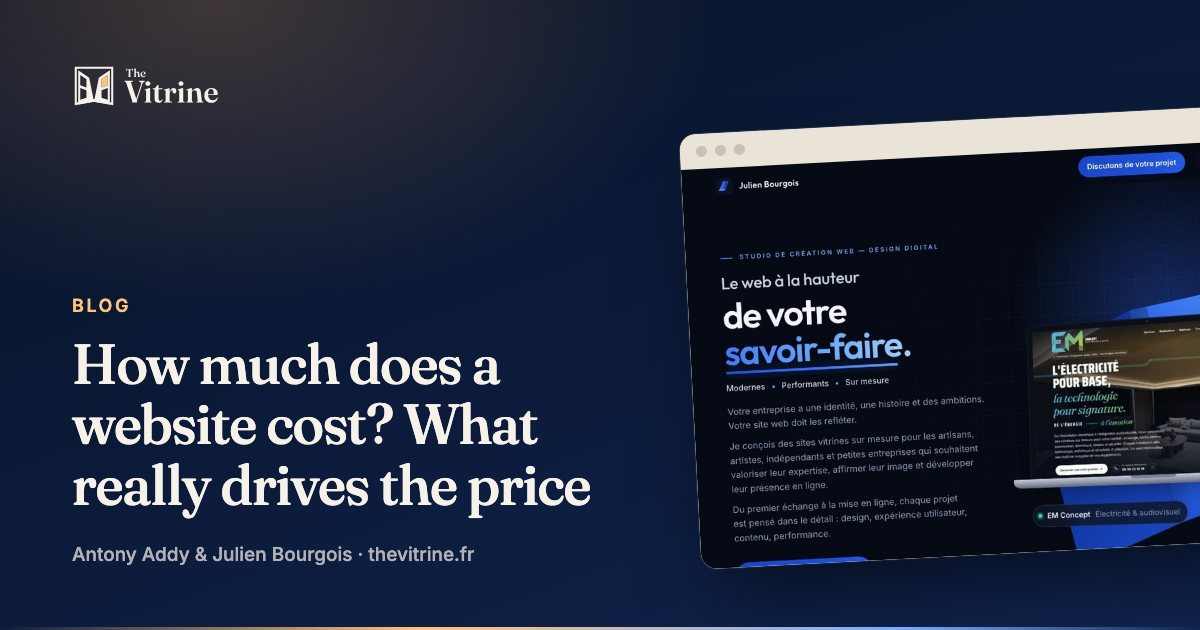
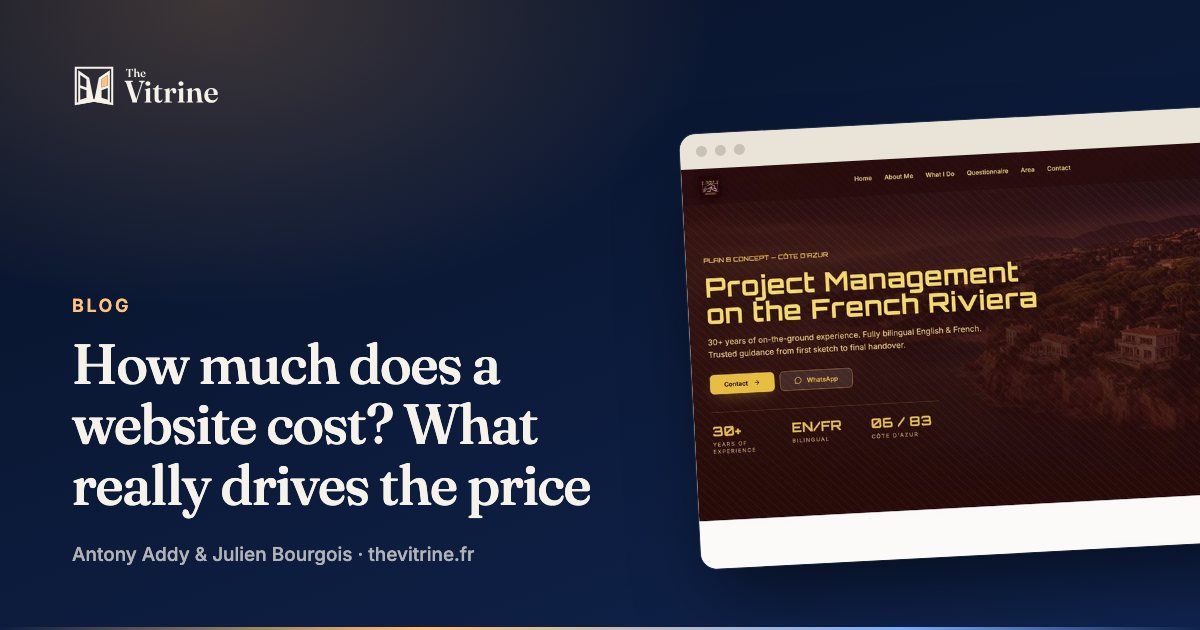
Present every site as The Vitrine's shared work
- Remove the Antony / Julien filter, the maker names on cards and in the hero
- Case studies say "Built by The Vitrine"; structured data credits the organisation
- Contact cards: both co-founders, linking to The Vitrine's contact page
- About page: one team, one shared site count, no per-person work links
- FAQ, forms, emails and blog articles speak as "we"
- Tests follow the category filter; hero test follows the current slide order

Changed region(s): [[0.555, 0.2111, 1.0, 0.9048]]

diff --git a/src/i18n.ts b/src/i18n.ts
@@ -55,9 +55,8 @@ export const strings = {
     contactLead: "Want a window",
     contactAccent: "of your own",
     contactTail: "?",
-    contactLede: "Tell one of us about your business, and we'll come back with ideas and a clear quote.",
-    contactAntony: "Websites, apps and AI tools · also English and AI training",
-    contactJulien: "Made-to-measure websites for tradespeople, shops and independents",
+    contactLede: "Tell us about your business, and we'll come back with ideas and a clear quote.",
+    contactRole: "Co-founder of The Vitrine",
     contactCta: "Get in touch",
     barCta: "Quote",
     caseTitle: "{title}: case study | The Vitrine",
@@ -114,7 +113,7 @@ export const strings = {
     cfDescription: "A question, an idea, a project? Send Antony and Julien a message, or reach them on WhatsApp.",
     cfEyebrow: "Contact",
     cfH1: "Write to us",
-    cfLead: "A question, an idea, a project? Leave us a message: Antony or Julien will reply very soon.",
+    cfLead: "A question, an idea, a project? Leave us a message: we'll reply very soon.",
     cfName: "Your name",
     cfEmail: "Email",
     cfPhone: "Phone (optional)",
@@ -127,7 +126,7 @@ export const strings = {
     cfErrConsent: "Please tick the box so we can reply to you.",
     cfErrSend: "Sending didn't work. Please try again, or reach us on WhatsApp.",
     cfDoneH: "Thank you, your message is on its way.",
-    cfDoneP: "Antony or Julien will reply very soon.",
+    cfDoneP: "We'll reply very soon.",
     cfSentTo: "A confirmation is on its way to",
     cfAgain: "Write another message",
     cfProjectTitle: "Planning a website?",
@@ -139,13 +138,12 @@ export const strings = {
     heroContactLink: "Write to us",
     navAbout: "About",
     aboutTitle: "About: Antony Addy and Julien Bourgois | The Vitrine",
-    aboutDescription: "Meet Antony Addy and Julien Bourgois, the two makers behind The Vitrine: who they are, how they work, and the websites they build.",
+    aboutDescription: "Meet Antony Addy and Julien Bourgois, the two founders of The Vitrine: who they are, how they work together, and the websites they build.",
     aboutEyebrow: "About",
-    aboutH1: "Two makers, one shop window",
-    aboutLead: "The Vitrine brings together the websites Antony Addy and Julien Bourgois build, each in their own way, for individuals, associations, institutions and businesses of every size, in the languages their audiences need. Two different paths, one standard: fast, polished sites, and one person to talk to from the first call to launch.",
-    aboutCount: "{n} sites in the window",
-    aboutSeeWork: "See his work",
-    aboutSite: "His website",
+    aboutH1: "Antony and Julien: one shop window",
+    aboutLead: "The Vitrine is Antony Addy and Julien Bourgois. Together, we build fast, polished websites for individuals, associations, institutions and businesses of every size, in the languages their audiences need. Two complementary backgrounds, one team, and direct contact from the first call to launch.",
+    aboutCount: "{n} sites built together",
+    aboutSeeWork: "See our work",
     aboutShared: "What we share",
     aboutNext: "Got a project in mind?",
     legalLink: "Legal notice",
@@ -162,7 +160,7 @@ export const strings = {
     servicesWhereTitle: "Where",
     servicesWhere: "Fréjus, Saint-Raphaël and across the Var and Alpes-Maritimes, and remotely anywhere else: our sites also run in the United Kingdom and Italy.",
     servicesHowTitle: "How we work",
-    servicesHow: "You talk directly to the person building your site. AI helps us design and build faster; we check and polish every detail by hand.",
+    servicesHow: "You talk directly to Antony and Julien, the people building your site. AI helps us design and build faster; we check and polish every detail by hand.",
     servicesPrice: "Allow {timescale} for a showcase website, from €{price}.",
     legalTitle: "Legal notice",
     legalDescription: "Who publishes The Vitrine, where it is hosted, and how it handles your data.",
@@ -208,8 +206,7 @@ export const strings = {
     contactAccent: "vitrine",
     contactTail: "\u00a0?",
     contactLede: "Parlez-nous de votre activité : nous revenons vers vous avec des idées et un devis clair.",
-    contactAntony: "Sites web, applis et outils IA · aussi formations d'anglais et d'IA",
-    contactJulien: "Sites vitrines sur mesure pour artisans, commerces et indépendants",
+    contactRole: "Cofondateur de The Vitrine",
     contactCta: "Prendre contact",
     barCta: "Devis",
     caseTitle: "{title} : étude de cas | The Vitrine",
@@ -266,7 +263,7 @@ export const strings = {
     cfDescription: "Une question, une idée, un projet ? Écrivez à Antony et Julien, ou joignez-les sur WhatsApp.",
     cfEyebrow: "Contact",
     cfH1: "Écrivez-nous",
-    cfLead: "Une question, une idée, un projet ? Laissez-nous un message : Antony ou Julien vous répond très vite.",
+    cfLead: "Une question, une idée, un projet ? Laissez-nous un message : nous vous répondons très vite.",
     cfName: "Votre nom",
     cfEmail: "E-mail",
     cfPhone: "Téléphone (facultatif)",
@@ -279,7 +276,7 @@ export const strings = {
     cfErrConsent: "Merci de cocher la case pour que nous puissions vous répondre.",
     cfErrSend: "L'envoi n'a pas fonctionné. Réessayez, ou joignez-nous sur WhatsApp.",
     cfDoneH: "Merci, votre message est parti.",
-    cfDoneP: "Antony ou Julien vous répond très vite.",
+    cfDoneP: "Nous vous répondons très vite.",
     cfSentTo: "Une confirmation vient de partir à",
     cfAgain: "Écrire un autre message",
     cfProjectTitle: "Un projet de site ?",
@@ -291,13 +288,12 @@ export const strings = {
     heroContactLink: "Écrivez-nous",
     navAbout: "À propos",
     aboutTitle: "À propos : Antony Addy et Julien Bourgois | The Vitrine",
-    aboutDescription: "Antony Addy et Julien Bourgois, les deux créateurs de The Vitrine : qui ils sont, comment ils travaillent, et les sites qu'ils créent.",
+    aboutDescription: "Antony Addy et Julien Bourgois, les deux fondateurs de The Vitrine : qui ils sont, comment ils travaillent ensemble, et les sites qu'ils créent.",
     aboutEyebrow: "À propos",
-    aboutH1: "Deux créateurs, une même vitrine",
-    aboutLead: "The Vitrine réunit les sites qu'Antony Addy et Julien Bourgois créent, chacun à sa façon, pour les particuliers, les associations, les institutions et les entreprises de toute taille, dans les langues de leurs publics. Deux parcours différents, une même exigence : des sites rapides et soignés, et un seul interlocuteur du premier échange à la mise en ligne.",
-    aboutCount: "{n} sites dans la vitrine",
-    aboutSeeWork: "Voir ses réalisations",
-    aboutSite: "Son site",
+    aboutH1: "Antony et Julien : une seule vitrine",
+    aboutLead: "The Vitrine, c'est Antony Addy et Julien Bourgois. Ensemble, nous créons des sites rapides et soignés pour les particuliers, les associations, les institutions et les entreprises de toute taille, dans les langues de leurs publics. Deux parcours complémentaires, une seule équipe, et un échange direct du premier contact à la mise en ligne.",
+    aboutCount: "{n} sites créés ensemble",
+    aboutSeeWork: "Voir nos réalisations",
     aboutShared: "Ce qui nous rassemble",
     aboutNext: "Un projet en tête ?",
     legalLink: "Mentions légales",
@@ -314,7 +310,7 @@ export const strings = {
     servicesWhereTitle: "Où",
     servicesWhere: "À Fréjus, Saint-Raphaël et dans tout le Var et les Alpes-Maritimes, et à distance partout ailleurs : nos sites tournent aussi au Royaume-Uni et en Italie.",
     servicesHowTitle: "Comment nous travaillons",
-    servicesHow: "Vous échangez directement avec la personne qui crée votre site. L'IA nous aide à concevoir et à construire plus vite ; nous vérifions et peaufinons chaque détail à la main.",
+    servicesHow: "Vous échangez directement avec Antony et Julien, ceux qui créent votre site. L'IA nous aide à concevoir et à construire plus vite ; nous vérifions et peaufinons chaque détail à la main.",
     servicesPrice: "Comptez {timescale} pour un site vitrine, à partir de {price} €.",
     legalTitle: "Mentions légales",
     legalDescription: "Qui édite The Vitrine, où le site est hébergé et comment il traite vos données.",

diff --git a/src/data/people.ts b/src/data/people.ts
@@ -1,4 +1,4 @@
-// The two makers behind The Vitrine, for the About page (/a-propos/, /en/about/).
+// The two founders of The Vitrine, for the About page (/a-propos/, /en/about/).
 // Written from what each of them says on their own site (antonyaddy.com,
 // julienb.vercel.app) on 22 October 2026: keep it in step with those.
 //
@@ -30,16 +30,16 @@ export const people: Person[] = [
     name: "Antony Addy",
     initials: "AA",
     photo: "/people/antony.jpg",
-    role: { fr: "Formateur, créateur de sites et d'outils avec l'IA", en: "Trainer, and builder of websites and learning tools with AI" },
+    role: { fr: "Cofondateur de The Vitrine", en: "Co-founder of The Vitrine" },
     place: { fr: "Fréjus · Côte d'Azur et à distance", en: "Fréjus · French Riviera and online" },
     bio: {
       fr: [
         "Britannique de naissance, Antony vit et travaille en France depuis plus de vingt ans. Formateur Professionnel d'Adultes certifié depuis 2017, il forme d'abord à l'anglais professionnel, puis à l'IA générative.",
-        "Aujourd'hui, il met son métier de formateur au service du web : il conçoit avec l'IA des sites qui vont droit à l'essentiel, du restaurant de Fréjus au club de football de Bristol, et des plateformes d'apprentissage disponibles en une dizaine de langues.",
+        "Aujourd'hui, au sein de The Vitrine, il met son métier de formateur au service du web : il conçoit avec l'IA des sites qui vont droit à l'essentiel, du restaurant de Fréjus au club de football de Bristol, et des plateformes d'apprentissage disponibles en une dizaine de langues.",
       ],
       en: [
         "Born British, Antony has lived and worked in France for more than twenty years. A certified adult trainer (Formateur Professionnel d'Adultes) since 2017, he trains people in professional English and in generative AI.",
-        "Today he brings a trainer's eye to the web, building websites with AI that get straight to the point, from a restaurant in Fréjus to a football club in Bristol, and learning platforms available in around ten languages.",
+        "Today, at The Vitrine, he brings a trainer's eye to the web, building websites with AI that get straight to the point, from a restaurant in Fréjus to a football club in Bristol, and learning platforms available in around ten languages.",
       ],
     },
     facts: {
@@ -55,16 +55,16 @@ export const people: Person[] = [
     name: "Julien Bourgois",
     initials: "JB",
     photo: "/people/julien.jpg",
-    role: { fr: "Studio web indépendant : conception et développement", en: "Independent web studio: design and development" },
+    role: { fr: "Cofondateur de The Vitrine", en: "Co-founder of The Vitrine" },
     place: { fr: "Du premier échange à la mise en ligne", en: "From the first call to launch" },
     bio: {
       fr: [
-        "Julien conçoit et développe des sites vitrines sur mesure pour les artisans, les commerçants, les thérapeutes et les auteurs : rapides, pensés pour le téléphone, et faits pour donner envie de vous appeler.",
-        "Sa méthode tient en quatre étapes, sans surprise : un échange sur votre métier et vos objectifs avec un devis clair, une maquette ajustée ensemble avant la moindre ligne de code, le développement, puis la mise en ligne, avec un suivi pour la suite.",
+        "Julien apporte à The Vitrine la conception et le développement sur mesure. Artisans, commerçants, thérapeutes, auteurs : il crée des sites rapides, pensés pour le téléphone, et faits pour donner envie d'appeler.",
+        "Avec Antony, il suit une méthode en quatre étapes, sans surprise : un échange sur votre métier et vos objectifs avec un devis clair, une maquette ajustée ensemble avant la moindre ligne de code, le développement, puis la mise en ligne, avec un suivi pour la suite.",
       ],
       en: [
-        "Julien designs and builds made-to-measure websites for tradespeople, shopkeepers, therapists and authors: fast, made for phones, and designed to make people want to call.",
-        "His method has four steps and no surprises: a conversation about your trade and your goals with a clear quote, a design agreed together before any code is written, development, then launch, with follow-up afterwards.",
+        "Julien brings made-to-measure design and development to The Vitrine. Tradespeople, shopkeepers, therapists, authors: he builds sites that are fast, made for phones and designed to make people want to call.",
+        "With Antony, he follows a four-step method with no surprises: a conversation about your trade and your goals with a clear quote, a design agreed together before any code is written, development, then launch, with follow-up afterwards.",
       ],
     },
     facts: {
@@ -76,9 +76,9 @@ export const people: Person[] = [
   },
 ];
 
-/** What both makers share: the "Ce qui nous rassemble" section. */
+/** What the two founders share: the "Ce qui nous rassemble" section. */
 export const principles: { title: Text; text: Text }[] = [
-  { title: { fr: "Un seul interlocuteur", en: "One person to talk to" }, text: { fr: "Vous échangez directement avec la personne qui crée votre site, du premier échange à la mise en ligne. Pas d'intermédiaire.", en: "You deal directly with whoever builds your site, from the first conversation to launch. No middlemen." } },
+  { title: { fr: "En direct, sans intermédiaire", en: "Direct, with no middlemen" }, text: { fr: "Vous échangez directement avec Antony et Julien, ceux qui créent votre site, du premier échange à la mise en ligne.", en: "You deal directly with Antony and Julien, the people who build your site, from the first conversation to launch." } },
   { title: { fr: "L'IA comme outil, pas comme raccourci", en: "AI as a tool, not a shortcut" }, text: { fr: "L'IA nous aide à concevoir et à construire plus vite ; chaque choix et chaque détail restent vérifiés à la main.", en: "AI helps us design and build faster; every choice and every detail is still checked by hand." } },
   { title: { fr: "Du sur-mesure, métier par métier", en: "Made to measure, trade by trade" }, text: { fr: "Une pizzeria, une auto-école et un club de football n'ont pas besoin du même site. Chacun part de votre activité.", en: "A pizzeria, a driving school and a football club don't need the same site. Each one starts from your business." } },
   { title: { fr: "Pensé pour le téléphone et pour Google", en: "Built for phones and for Google" }, text: { fr: "Des pages rapides, des informations claires et les bases dont les moteurs de recherche ont besoin, dans les langues de vos visiteurs.", en: "Fast pages, clear information and the basics search engines need, in whatever languages your visitors speak." } },

diff --git a/src/data/cases.ts b/src/data/cases.ts
@@ -230,8 +230,8 @@ export const cases: Record<string, CaseStudy> = {
     status: "published",
     place: { fr: "Studio web indépendant", en: "Independent web studio" },
     client: {
-      fr: "C'est le site du studio de Julien Bourgois, l'un des deux créateurs de The Vitrine. Julien conçoit et développe des sites vitrines sur mesure pour les artisans, commerçants, thérapeutes et auteurs : rapides, pensés pour le téléphone et faits pour donner envie d'appeler.",
-      en: "This is the studio site of Julien Bourgois, one of the two makers behind The Vitrine. Julien designs and builds made-to-measure websites for tradespeople, shopkeepers, therapists and authors: fast, made for phones and designed to make people want to call.",
+      fr: "C'est le site du studio de Julien Bourgois, cofondateur de The Vitrine. Julien conçoit et développe des sites vitrines sur mesure pour les artisans, commerçants, thérapeutes et auteurs : rapides, pensés pour le téléphone et faits pour donner envie d'appeler.",
+      en: "This is the studio site of Julien Bourgois, co-founder of The Vitrine. Julien designs and builds made-to-measure websites for tradespeople, shopkeepers, therapists and authors: fast, made for phones and designed to make people want to call.",
     },
     built: {
       fr: [
@@ -596,8 +596,8 @@ export const cases: Record<string, CaseStudy> = {
     seoDescription: { fr: "Le site d'Antony : formations d'anglais professionnel, ateliers d'IA générative et création de sites web, dans le Var, les Alpes-Maritimes et à distance." },
     place: { fr: "Côte d'Azur et à distance", en: "French Riviera and online" },
     client: {
-      fr: "C'est le site principal d'Antony Addy, l'un des deux créateurs de The Vitrine : formateur d'anglais professionnel, britannique natif, certifié Formateur Professionnel d'Adultes depuis 2017, formateur en IA générative et créateur de sites web et d'outils pédagogiques, sur la Côte d'Azur et à distance.",
-      en: "This is the main site of Antony Addy, one of the two makers behind The Vitrine: a native British professional English trainer, certified as a Formateur Professionnel d'Adultes since 2017, a generative-AI trainer and a builder of websites and learning tools, on the French Riviera and online.",
+      fr: "C'est le site principal d'Antony Addy, cofondateur de The Vitrine : formateur d'anglais professionnel, britannique natif, certifié Formateur Professionnel d'Adultes depuis 2017, formateur en IA générative et créateur de sites web et d'outils pédagogiques, sur la Côte d'Azur et à distance.",
+      en: "This is the main site of Antony Addy, co-founder of The Vitrine: a native British professional English trainer, certified as a Formateur Professionnel d'Adultes since 2017, a generative-AI trainer and a builder of websites and learning tools, on the French Riviera and online.",
     },
     built: {
       fr: [

diff --git a/src/devis.ts b/src/devis.ts
@@ -22,10 +22,10 @@ export type Step = { id: string; fr: string; en: string; short: { fr: string; en
 export const UI = {
   fr: {
     title: "Votre projet de site — Questionnaire | The Vitrine",
-    description: "Décrivez votre projet de site en quelques minutes : Antony ou Julien vous répond avec un devis clair. Six étapes, en français ou en anglais.",
+    description: "Décrivez votre projet de site en quelques minutes : nous vous répondons avec un devis clair. Six étapes, en français ou en anglais.",
     eyebrow: "Questionnaire projet",
     h1: "Votre projet de site",
-    lead: "Quelques minutes pour nous décrire votre projet. Remplissez seulement ce qui vous concerne : nous verrons le reste ensemble. Antony ou Julien vous répond avec un devis clair.",
+    lead: "Quelques minutes pour nous décrire votre projet. Remplissez seulement ce qui vous concerne : nous verrons le reste ensemble. Nous vous répondons avec un devis clair.",
     noscript: "Ce questionnaire a besoin de JavaScript. Vous pouvez aussi nous contacter directement :",
     noscriptLink: "nos coordonnées",
     prev: "Précédent", next: "Suivant", submit: "Envoyer", sending: "Envoi…",
@@ -51,10 +51,10 @@ export const UI = {
   },
   en: {
     title: "Your website project — Questionnaire | The Vitrine",
-    description: "Tell us about your website project in a few minutes, and Antony or Julien will come back to you with a clear quote. Six short steps, in English or French.",
+    description: "Tell us about your website project in a few minutes, and we'll come back to you with a clear quote. Six short steps, in English or French.",
     eyebrow: "Project questionnaire",
     h1: "Your website project",
-    lead: "A few minutes to tell us about your project. Only fill in what applies to you; we'll go through the rest together. Antony or Julien will come back to you with a clear quote.",
+    lead: "A few minutes to tell us about your project. Only fill in what applies to you; we'll go through the rest together. We'll come back to you with a clear quote.",
     noscript: "This questionnaire needs JavaScript. You can also reach us directly:",
     noscriptLink: "our contact details",
     prev: "Back", next: "Next", submit: "Send", sending: "Sending…",

diff --git a/api/devis.js b/api/devis.js
@@ -147,10 +147,10 @@ function clientEmail(d) {
   const recap = CLIENT_SUMMARY.filter((id) => a[id]).map((id) => [SUMMARY_LABELS[id][d.lang], a[id].local || a[id].value]);
   const T = fr ? {
     subject: "Nous avons bien reçu votre projet — The Vitrine",
-    preview: "Merci ! Antony ou Julien revient vers vous très vite pour en parler.",
+    preview: "Merci ! Nous revenons vers vous très vite pour en parler.",
     label: "Demande reçue",
     h1: first ? `Merci, ${first}.` : "Merci.",
-    intro: "Nous avons bien reçu votre questionnaire et nous l'étudions avec attention. Antony ou Julien revient vers vous très vite, d'abord pour en parler, puis avec un devis clair.",
+    intro: "Nous avons bien reçu votre questionnaire et nous l'étudions avec attention. Nous revenons vers vous très vite, d'abord pour en parler, puis avec un devis clair.",
     stepsTitle: "Et maintenant ?",
     steps: ["Nous étudions votre projet en détail.", "Nous échangeons avec vous pour préciser vos besoins.", "Vous recevez un devis clair, sans surprise."],
     recapTitle: "Votre demande en bref",
@@ -159,10 +159,10 @@ function clientEmail(d) {
     foot: "Vous recevez cet e-mail parce que vous avez rempli le questionnaire projet sur thevitrine.fr.",
   } : {
     subject: "We've received your project — The Vitrine",
-    preview: "Thank you! Antony or Julien will be in touch very soon to talk it through.",
+    preview: "Thank you! We'll be in touch very soon to talk it through.",
     label: "Request received",
     h1: first ? `Thank you, ${first}.` : "Thank you.",
-    intro: "We've received your questionnaire and we're looking it over carefully. Antony or Julien will be in touch very soon, first to talk it through, then with a clear quote.",
+    intro: "We've received your questionnaire and we're looking it over carefully. We'll be in touch very soon, first to talk it through, then with a clear quote.",
     stepsTitle: "What happens next",
     steps: ["We study your project in detail.", "We talk with you to pin down your needs.", "You get a clear quote, with no surprises."],
     recapTitle: "Your request at a glance",

diff --git a/api/contact.js b/api/contact.js
@@ -67,20 +67,20 @@ function clientEmail(d) {
   const first = esc(greetingName(d.name));
   const T = fr ? {
     subject: "Nous avons bien reçu votre message — The Vitrine",
-    preview: "Merci ! Antony ou Julien vous répond très vite.",
+    preview: "Merci ! Nous vous répondons très vite.",
     label: "Message reçu",
     h1: first ? `Merci, ${first}.` : "Merci.",
-    intro: "Nous avons bien reçu votre message. Antony ou Julien vous répond très vite.",
+    intro: "Nous avons bien reçu votre message. Nous vous répondons très vite.",
     copy: "Votre message",
     project: "Un projet de site ? Notre questionnaire nous aide à vous préparer un devis clair.",
     quote: "Décrire votre projet", work: "Voir nos réalisations",
     foot: "Vous recevez cet e-mail parce que vous nous avez écrit depuis thevitrine.fr.",
   } : {
     subject: "We've received your message — The Vitrine",
-    preview: "Thank you! Antony or Julien will reply very soon.",
+    preview: "Thank you! We'll reply very soon.",
     label: "Message received",
     h1: first ? `Thank you, ${first}.` : "Thank you.",
-    intro: "We've received your message. Antony or Julien will reply very soon.",
+    intro: "We've received your message. We'll reply very soon.",
     copy: "Your message",
     project: "Planning a website? Our questionnaire helps us prepare a clear quote for you.",
     quote: "Describe your project", work: "See our work",

diff --git a/src/data/faq.ts b/src/data/faq.ts
@@ -43,10 +43,10 @@ export const faq: Faq[] = [
   },
   {
     id: "who",
-    q: { fr: "Qui contacter : Antony ou Julien ?", en: "Who should I contact, Antony or Julien?" },
+    q: { fr: "Qui va créer mon site ?", en: "Who will build my site?" },
     a: {
-      fr: "L'un ou l'autre : vous échangez ensuite directement avec la personne qui crée votre site. Antony propose aussi des formations d'anglais et d'IA, dans le Var et les Alpes-Maritimes ; Julien crée des sites sur mesure pour les artisans, commerces et indépendants. Les deux liens sont en bas de cette page.",
-      en: "Either of us: you then deal directly with the person who builds your site. Antony also runs English and AI training in the Var and Alpes-Maritimes; Julien builds made-to-measure sites for tradespeople, shops and independents. Both links are at the bottom of this page.",
+      fr: "Antony et Julien, ensemble : The Vitrine, c'est nous deux. Écrivez à l'un ou à l'autre, sur WhatsApp ou par le formulaire de contact : vous échangez directement avec nous, sans intermédiaire, du premier échange à la mise en ligne.",
+      en: "Antony and Julien, together: The Vitrine is the two of us. Message either of us on WhatsApp or use the contact form: you deal with us directly, with no middlemen, from the first conversation to launch.",
     },
   },
   {

diff --git a/src/content/blog/fr/site-internet-formateur.md b/src/content/blog/fr/site-internet-formateur.md
@@ -12,7 +12,7 @@ cases: [addy-genai-training, addys-english-pro, toeic-success-hub, student-mark-
 next: [ai-built-websites, website-cost]
 ---
 
-Un formateur s'adresse souvent à deux publics à la fois : la personne qui va suivre la formation, et celle qui la valide ou la finance, un responsable RH, un dirigeant, parfois un financeur. Votre site doit parler aux deux. Antony, formateur certifié depuis 2017, construit les siens avec cette idée en tête.
+Un formateur s'adresse souvent à deux publics à la fois : la personne qui va suivre la formation, et celle qui la valide ou la finance, un responsable RH, un dirigeant, parfois un financeur. Votre site doit parler aux deux. Nous connaissons ce métier de l'intérieur : Antony est formateur certifié depuis 2017, et nous avons construit ses sites avec cette idée en tête.
 
 ## 1. Des parcours clairs, par public
 
@@ -51,4 +51,4 @@ Un site de formation peut aussi devenir un outil de travail : exercices en ligne
 
 Si vous formez des publics étrangers ou à l'international, une version anglaise, ou dans la langue de vos stagiaires, élargit tout de suite votre audience.
 
-[Parlez-nous de vos formations](/devis/) : nous connaissons ce métier de l'intérieur.
+[Parlez-nous de vos formations](/devis/) : nous partons de vos stagiaires et de votre offre.

diff --git a/src/content/blog/en/websites-for-trainers.md b/src/content/blog/en/websites-for-trainers.md
@@ -12,7 +12,7 @@ cases: [addy-genai-training, addys-english-pro, toeic-success-hub, student-mark-
 next: [ai-built-websites, website-cost]
 ---
 
-A trainer often speaks to two audiences at once: the person who'll take the course, and the person who approves or pays for it, an HR manager, a business owner, sometimes a funding body. Your website has to speak to both. Antony, a certified trainer since 2017, builds his with that in mind.
+A trainer often speaks to two audiences at once: the person who'll take the course, and the person who approves or pays for it, an HR manager, a business owner, sometimes a funding body. Your website has to speak to both. We know this line of work from the inside: Antony has been a certified trainer since 2017, and we built his sites with that in mind.
 
 ## 1. Clear paths, by audience
 
@@ -51,4 +51,4 @@ A training website can also become a working tool: online exercises, exam simula
 
 If you train people from abroad or internationally, a version in English, or in your learners' language, widens your audience straight away.
 
-[Tell us about your courses](/en/quote/): we know this line of work from the inside.
+[Tell us about your courses](/en/quote/): we'll start from your learners and your offer.

diff --git a/src/content/blog/fr/site-internet-artisan-batiment.md b/src/content/blog/fr/site-internet-artisan-batiment.md
@@ -8,7 +8,7 @@ key: tradespeople-website
 date: 2026-10-28
 status: published
 cover: E-Mconcept
-cases: [E-Mconcept, planb-global-connect, julienb]
+cases: [E-Mconcept, planb-global-connect, autoecole]
 next: [local-google, website-cost]
 ---
 
@@ -49,4 +49,4 @@ Sur la Côte d'Azur, beaucoup de propriétaires sont étrangers. Le site de [Pla
 
 ## En résumé
 
-Un bon site d'artisan n'a pas besoin d'être grand : votre métier et votre zone, vos réalisations, vos garanties, et un moyen de vous appeler tout de suite. Julien a fait des sites pour artisans une spécialité de [son studio](/realisations/julien-bourgois/). [Parlez-nous de votre activité](/devis/) : nous partons de la façon dont vos clients vous trouvent aujourd'hui.
+Un bon site d'artisan n'a pas besoin d'être grand : votre métier et votre zone, vos réalisations, vos garanties, et un moyen de vous appeler tout de suite. C'est un métier que nous connaissons bien : [voyez nos réalisations](/#work). [Parlez-nous de votre activité](/devis/) : nous partons de la façon dont vos clients vous trouvent aujourd'hui.

diff --git a/src/content/blog/fr/combien-coute-un-site-internet.md b/src/content/blog/fr/combien-coute-un-site-internet.md
@@ -7,8 +7,8 @@ slug: combien-coute-un-site-internet
 key: website-cost
 date: 2026-10-28
 status: published
-cover: julienb
-cases: [julienb, ristorante-lola, E-Mconcept]
+cover: planb-global-connect
+cases: [ristorante-lola, E-Mconcept, autoecole]
 next: [domain-hosting, our-process]
 ---
 
@@ -40,7 +40,7 @@ Textes et photos font une grande différence, en qualité comme en temps. Avez-v
 
 ## 5. Le sur-mesure
 
-Un modèle tout fait coûte moins cher au départ, mais votre site ressemble alors à des milliers d'autres. Un site sur mesure part de votre activité et de vos clients. C'est ce que montre le studio de [Julien](/realisations/julien-bourgois/) avec ses « quatre métiers, quatre identités ».
+Un modèle tout fait coûte moins cher au départ, mais votre site ressemble alors à des milliers d'autres. Un site sur mesure part de votre activité et de vos clients. Comparez la pizzeria, l'auto-école et le club de football de [notre vitrine](/#work) : trois activités, trois sites qui ne se ressemblent pas.
 
 ## 6. Ce qui vient après la mise en ligne
 

diff --git a/src/content/blog/en/how-much-does-a-website-cost.md b/src/content/blog/en/how-much-does-a-website-cost.md
@@ -7,8 +7,8 @@ slug: how-much-does-a-website-cost
 key: website-cost
 date: 2026-10-28
 status: published
-cover: julienb
-cases: [julienb, ristorante-lola, E-Mconcept]
+cover: planb-global-connect
+cases: [ristorante-lola, E-Mconcept, autoecole]
 next: [domain-hosting, our-process]
 ---
 
@@ -40,7 +40,7 @@ Words and photos make a big difference, in quality and in time. Do you already h
 
 ## 5. Made to measure
 
-A ready-made template costs less at first, but your site then looks like thousands of others. A made-to-measure site starts from your business and your customers. [Julien's studio](/en/work/julien-bourgois/) shows it with its "four trades, four identities".
+A ready-made template costs less at first, but your site then looks like thousands of others. A made-to-measure site starts from your business and your customers. Compare the pizzeria, the driving school and the football club in [our shop window](/en/#work): three businesses, three sites that look nothing alike.
 
 ## 6. What comes after launch
 
